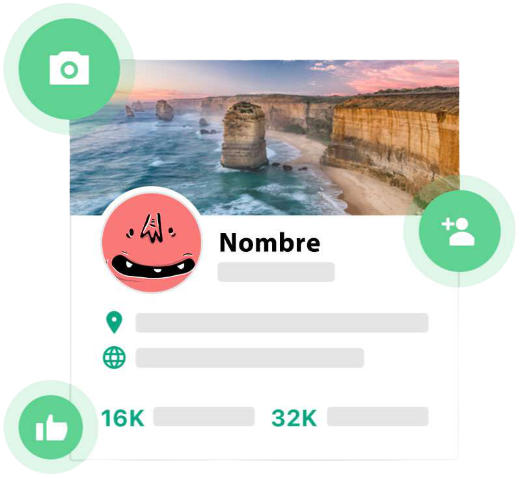
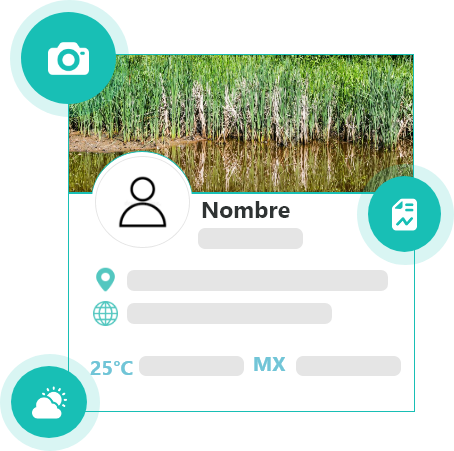
Cambios a favor de adaptacion hacia tematica cañias, cambio de imagenes etc...

diff --git a/src/components/Account/InfoUser/InfoUser.js b/src/components/Account/InfoUser/InfoUser.js
@@ -1,14 +1,15 @@
-import React from "react";
+import React, { useState } from "react";
 import { View, Text } from "react-native";
 import { Avatar } from "react-native-elements";
-import { getAuth } from "firebase/auth"; ////////no se si haya error aqui con acento aqui pero tengo el teclado en ingles y me da hueva aplanarle a "wind +  espacio" dos veces y luego regresarlo a ingles
+import { getAuth, updateProfile } from "firebase/auth"; ////////no se si haya error aqui con acento aqui pero tengo el teclado en ingles y me da hueva aplanarle a "wind +  espacio" dos veces y luego regresarlo a ingles
 import { styles } from "./InfoUser.styles";
 import * as ImagePicker from "expo-image-picker";
-import { getStorage, ref, uploadBytes } from "firebase/storage";
+import { getStorage, ref, uploadBytes, getDownloadURL } from "firebase/storage";
 
 export function InfoUser(props) {
   const { setLoading, setLoadingText } = props;
   const { uid, photoURL, displayName, email } = getAuth().currentUser;
+  const [avatar, setAvatar] = useState(photoURL); //se crea un estado para el avatar
 
   const changeAvatar = async () => {
     //funcion para cambiar el avatar
@@ -43,7 +44,16 @@ export function InfoUser(props) {
   };
 
   const updatePhotoUrl = async (imagePath) => {
-    console.log(imagePath);
+    const storage = getStorage(); //se obtiene el storage de firebase
+    const imageRef = ref(storage, imagePath); //se crea una referencia al storage de firebase
+
+    const imageUrl = await getDownloadURL(imageRef); //se obtiene la url de la imagen
+    console.log(imageUrl); //muestra en consola la url de la imagen
+
+    const auth = getAuth(); //se obtiene la autenticacion de firebase
+    updateProfile(auth.currentUser, { photoURL: imageUrl }); //se actualiza el perfil con la url de la imagen
+
+    setAvatar(imageUrl); //se actualiza el estado del avatar
     setLoading(false); //se quita el loading
   };
 
@@ -55,7 +65,7 @@ export function InfoUser(props) {
         containerStyle={styles.avatar}
         icon={{ type: "material", name: "person" }} // si no tiene foto se muestra el icono
         // source={{ uri: "C:\\Users\\jaime\\Downloads\\inge.png" }} // si tiene foto en firebase se muestra este
-        source={{ uri: photoURL }} // si tiene foto en firebase se muestra este
+        source={{ uri: avatar }} // si tiene foto en firebase se muestra este
       >
         <Avatar.Accessory size={24} onPress={changeAvatar} />
       </Avatar>

diff --git a/src/screens/Account/UserGuestScreen/UserGuestScreen.js b/src/screens/Account/UserGuestScreen/UserGuestScreen.js
@@ -18,13 +18,13 @@ export function UserGuestScreen() {
         source={require("../../../../assets/img/user-guest.png")}
         style={styles.image}
       ></Image>
-      <Text style={styles.title}>Consultar tu perfil de 5 tenders</Text>
+      <Text style={styles.title}>Consultar tu perfil de CañIAs</Text>
       <Text style={styles.description}>
-        ¿Cómo describirías tu restaurante favorito? Descubre y explora los
-        mejores restaurantes de manera fácil, vota por tus favoritos y comparte
-        tu experiencia dejando comentarios. Te invitamos a disfrutar de una
-        experiencia gastronómica única y a compartir tus opiniones para ayudar a
-        otros a encontrar sus lugares favoritos para comer.
+        Crear una cuenta en CañIAs te brinda acceso a una plataforma integral
+        diseñada para revolucionar la gestión agrícola en el cultivo de caña de
+        azúcar. Al registrarte, podrás disfrutar de una experiencia única en la
+        que podrás acceder a una amplia gama de funcionalidades para optimizar
+        tus operaciones agrícolas.
       </Text>
 
       <View>

diff --git a/src/screens/Account/RegisterScreen/RegisterScreen.js b/src/screens/Account/RegisterScreen/RegisterScreen.js
@@ -8,7 +8,7 @@ export function RegisterScreen() {
   return (
     <KeyboardAwareScrollView>
       <Image
-        source={require("../../../../assets/img/5-tenedores-letras-icono-logo.png")}
+        source={require("../../../../assets/img/canias.png")}
         style={styles.image}
       ></Image>
 

diff --git a/src/screens/Account/LoginScreen/LoginScreen.js b/src/screens/Account/LoginScreen/LoginScreen.js
@@ -20,6 +20,11 @@ export function LoginScreen() {
         style={styles.image}
       />
 
+      <Image
+        source={require("../../../../assets/img/drawlogin.png")}
+        style={styles.image}
+      />
+
       <View style={styles.content}>
         <LoginForm />
 

diff --git a/src/screens/Account/UserGuestScreen/UserGuestScreen.styles.js b/src/screens/Account/UserGuestScreen/UserGuestScreen.styles.js
@@ -21,6 +21,6 @@ export const styles = StyleSheet.create({
     marginBottom: 20,
   },
   btnStyle: {
-    backgroundColor: "#00a680",
+    backgroundColor: "#18BFB5",
   },
 });

diff --git a/src/components/Auth/LoginForm/LoginForm.styles.js b/src/components/Auth/LoginForm/LoginForm.styles.js
@@ -18,6 +18,6 @@ export const styles = StyleSheet.create({
     marginTop: 20,
   },
   btn: {
-    backgroundColor: "#00a680",
+    backgroundColor: "#18bfb5",
   },
 });
